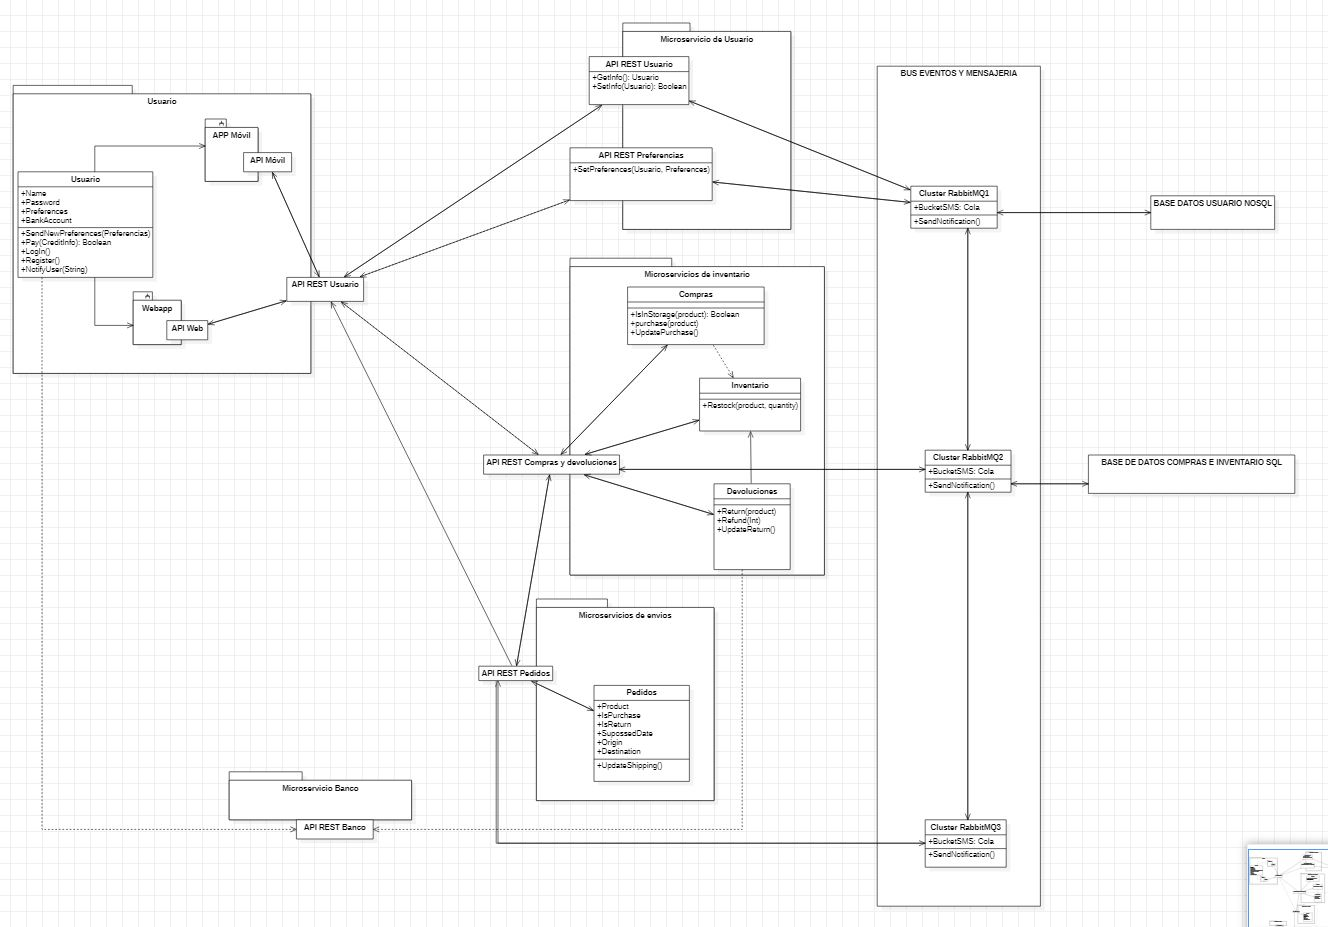
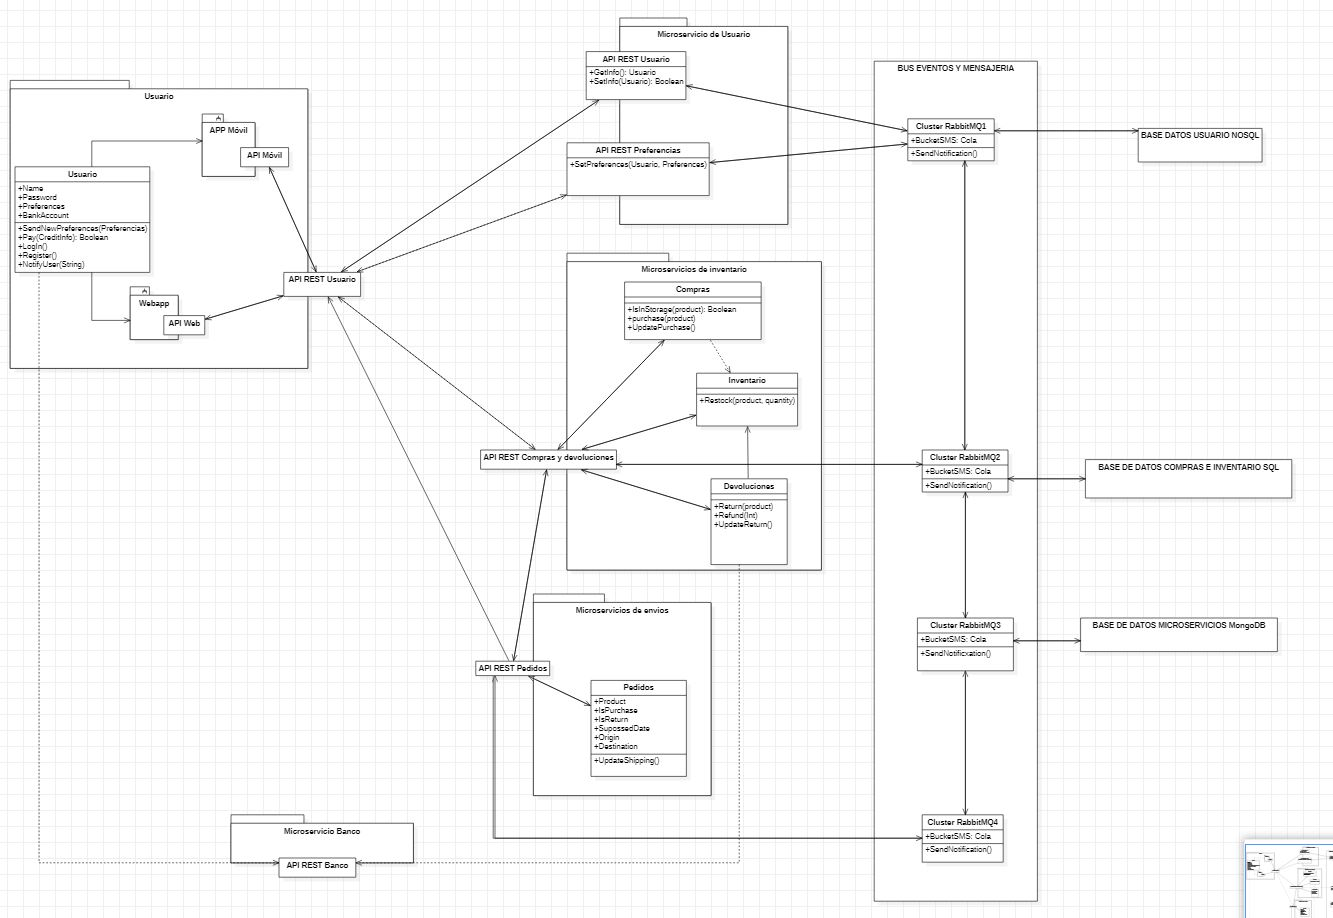
Capturas D0011

diff --git a/Semana 4/decisiones/0011-Nueva-base-de-datos-bus-logico.md b/Semana 4/decisiones/0011-Nueva-base-de-datos-bus-logico.md
@@ -10,7 +10,7 @@ Requisito a tratar:
 
 
 ## Contexto y problemas a resolver
-[ADR-0010](../decisiones/0010-Middleware-mensajeria-integracion-asincrona.md): Según se especifico en el ADR 10 era necesarío una conexión asíncrona de los microservicios mediante un MoM, que en ese caso se eligió por protocolo AMQP, se solicita crear un evento de bus lógico basado en mensajería para la persistencia de los dattos y la conexión asíncrona, por lo tanto, el middleware de mensajería será el bus lógico de datos y se basará en las decisiones tomadas anteriormente.
+[ADR-0010](../decisiones/0010-Middleware-mensajeria-integracion-asincrona.md): Según se especifico en el ADR 10 era necesarío una conexión asíncrona de los microservicios mediante un MoM, que en ese caso se eligió por protocolo AMQP, se solicita crear un evento de bus lógico basado en mensajería para la persistencia de los datos y la conexión asíncrona, por lo tanto, el middleware de mensajería será el bus lógico de datos y se basará en las decisiones tomadas anteriormente.
 
 A su vez se creará una nueva base de datos para la localización de los microservicios.
 
@@ -54,9 +54,11 @@ A su vez se creará una nueva base de datos para la localización de los microse
 
 ## Capturas CONTROL 
 
+![D0011](../capturasadmentor/D0011.JPG)
 
 ## UML de la decisión
 
+**NOTA**: Esta versión del UML incluye cambios no especificados en esta decisión, ya que también se aprecian cambios de la decisión [D0010](../decisiones/0010-Middleware-mensajeria-integracion-asincrona.md). Además, esta actualización incluye corrección de pequeños errores visuales y lógicos que estaban especificados en anteriores decisiones, pero de los que no nos habíamos percatado hasta ahora.
 
 ![UML-D0011](../uml/D0011uml.JPG)
 
